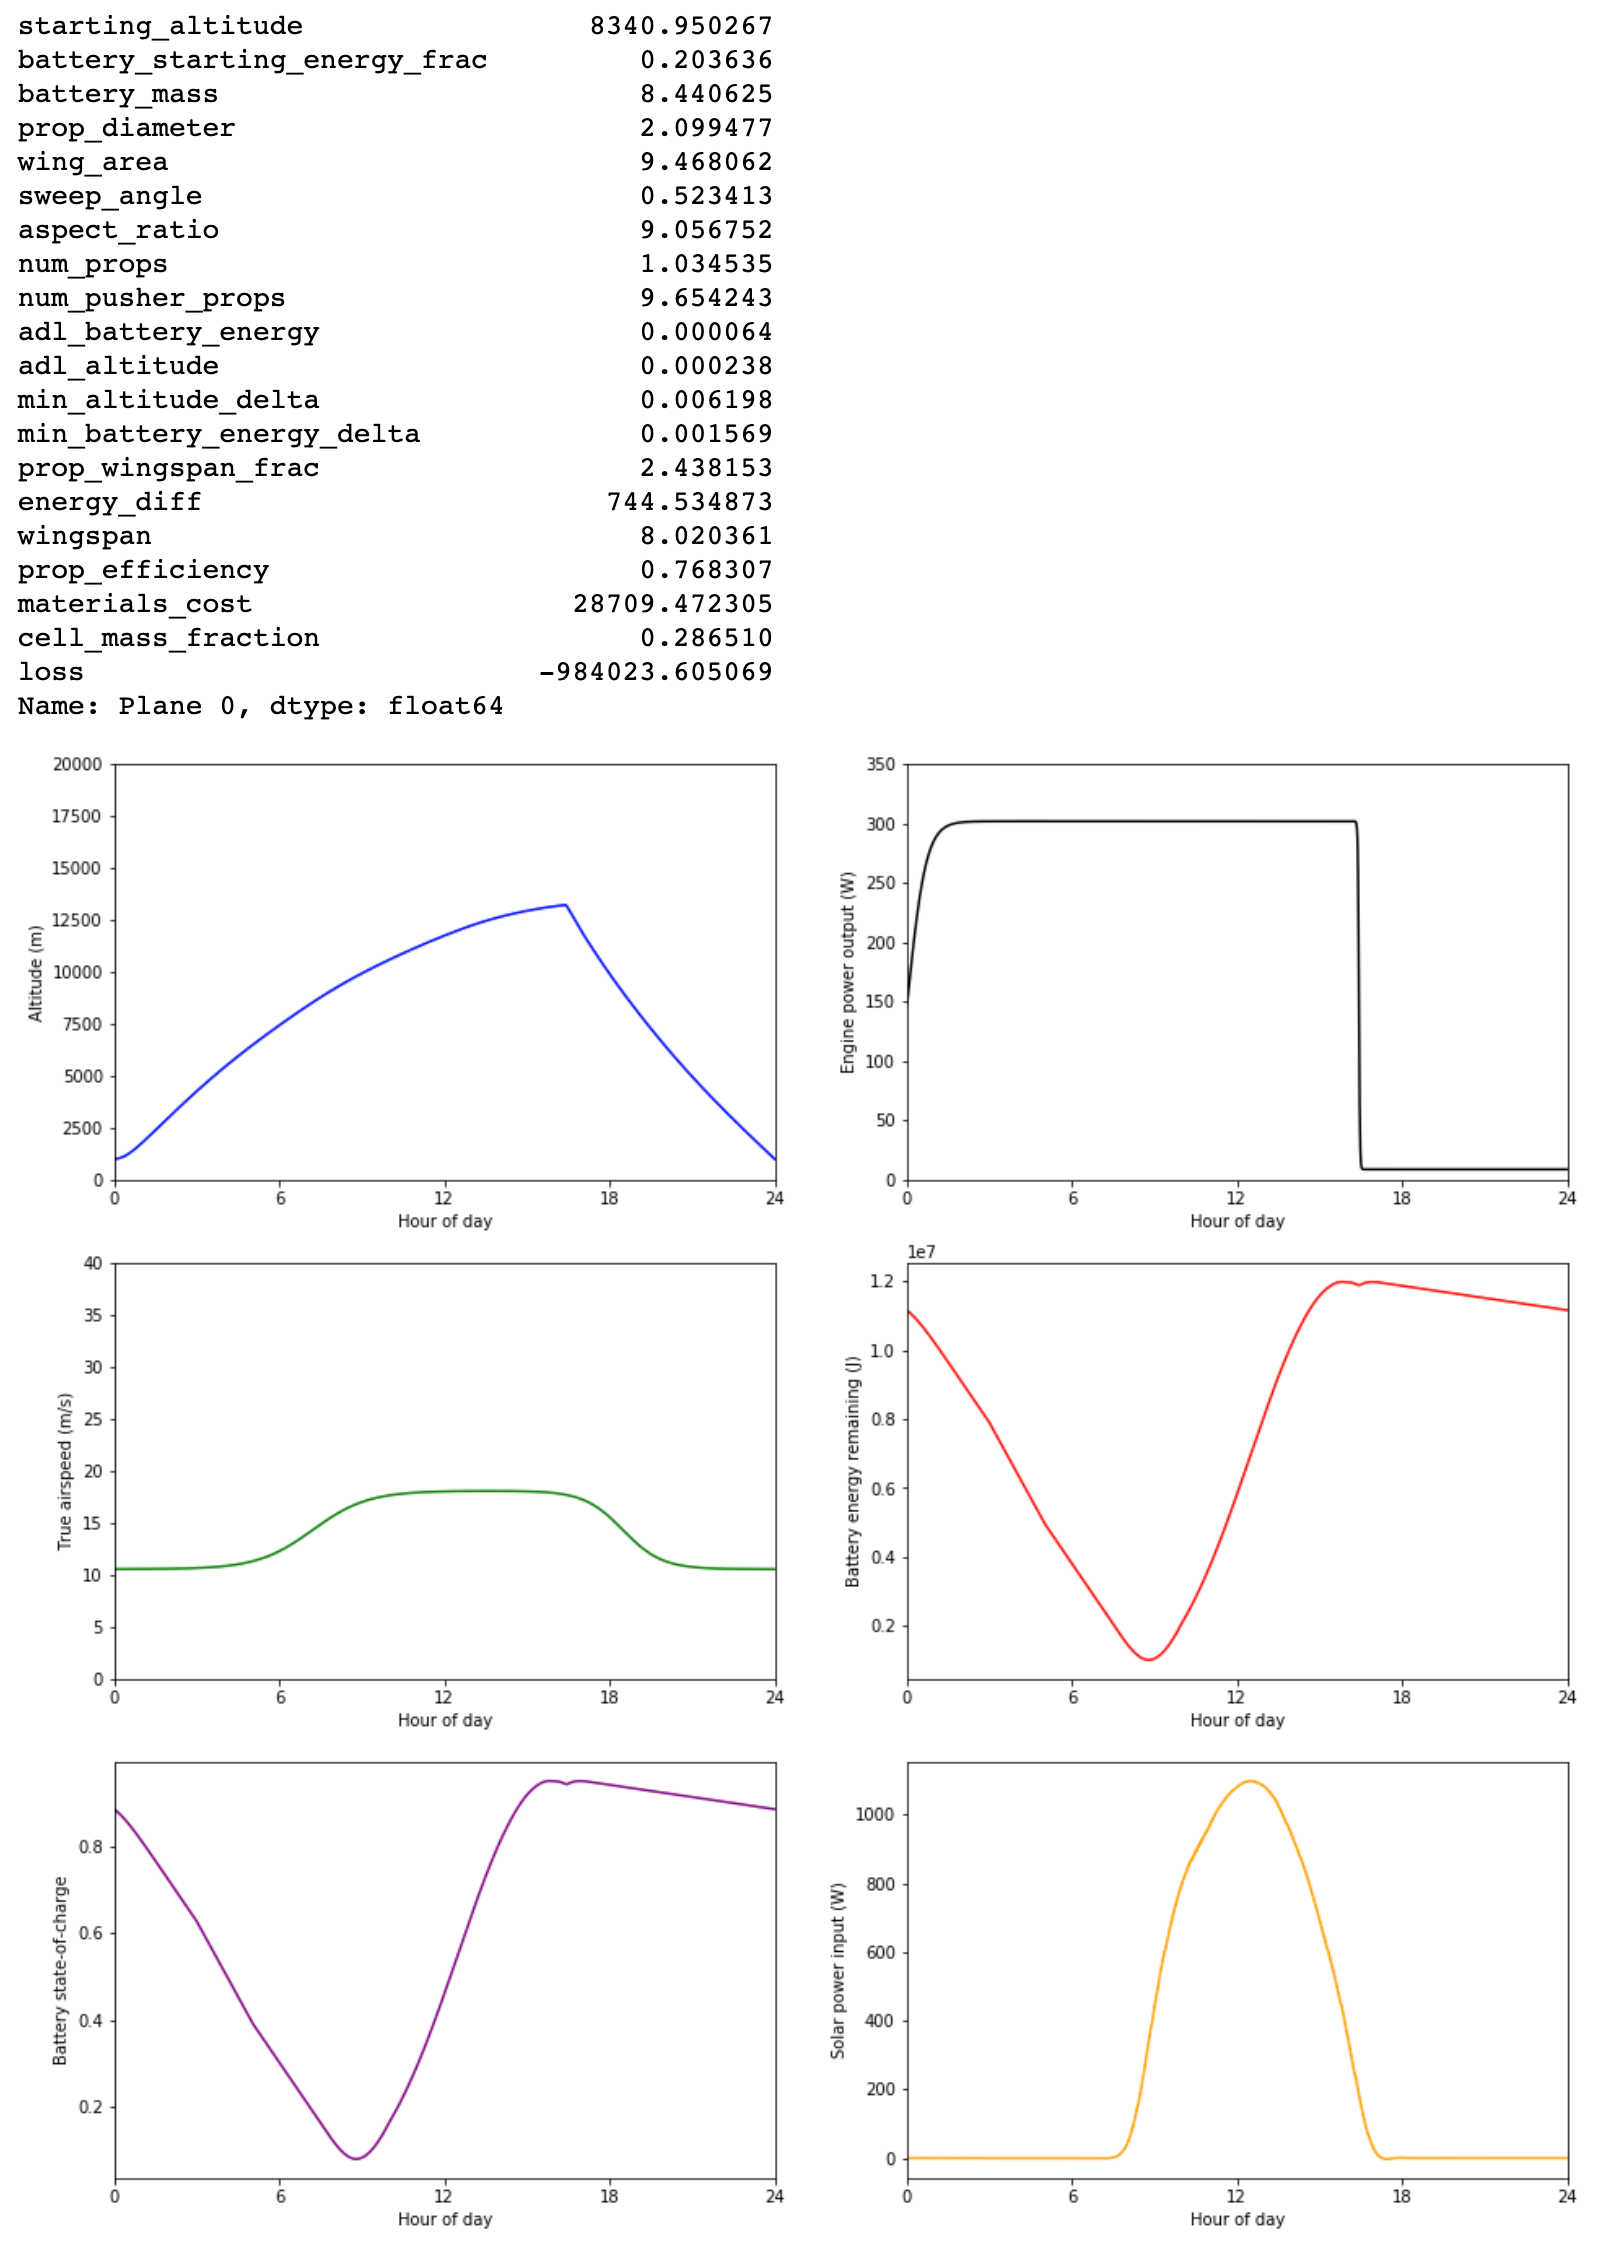
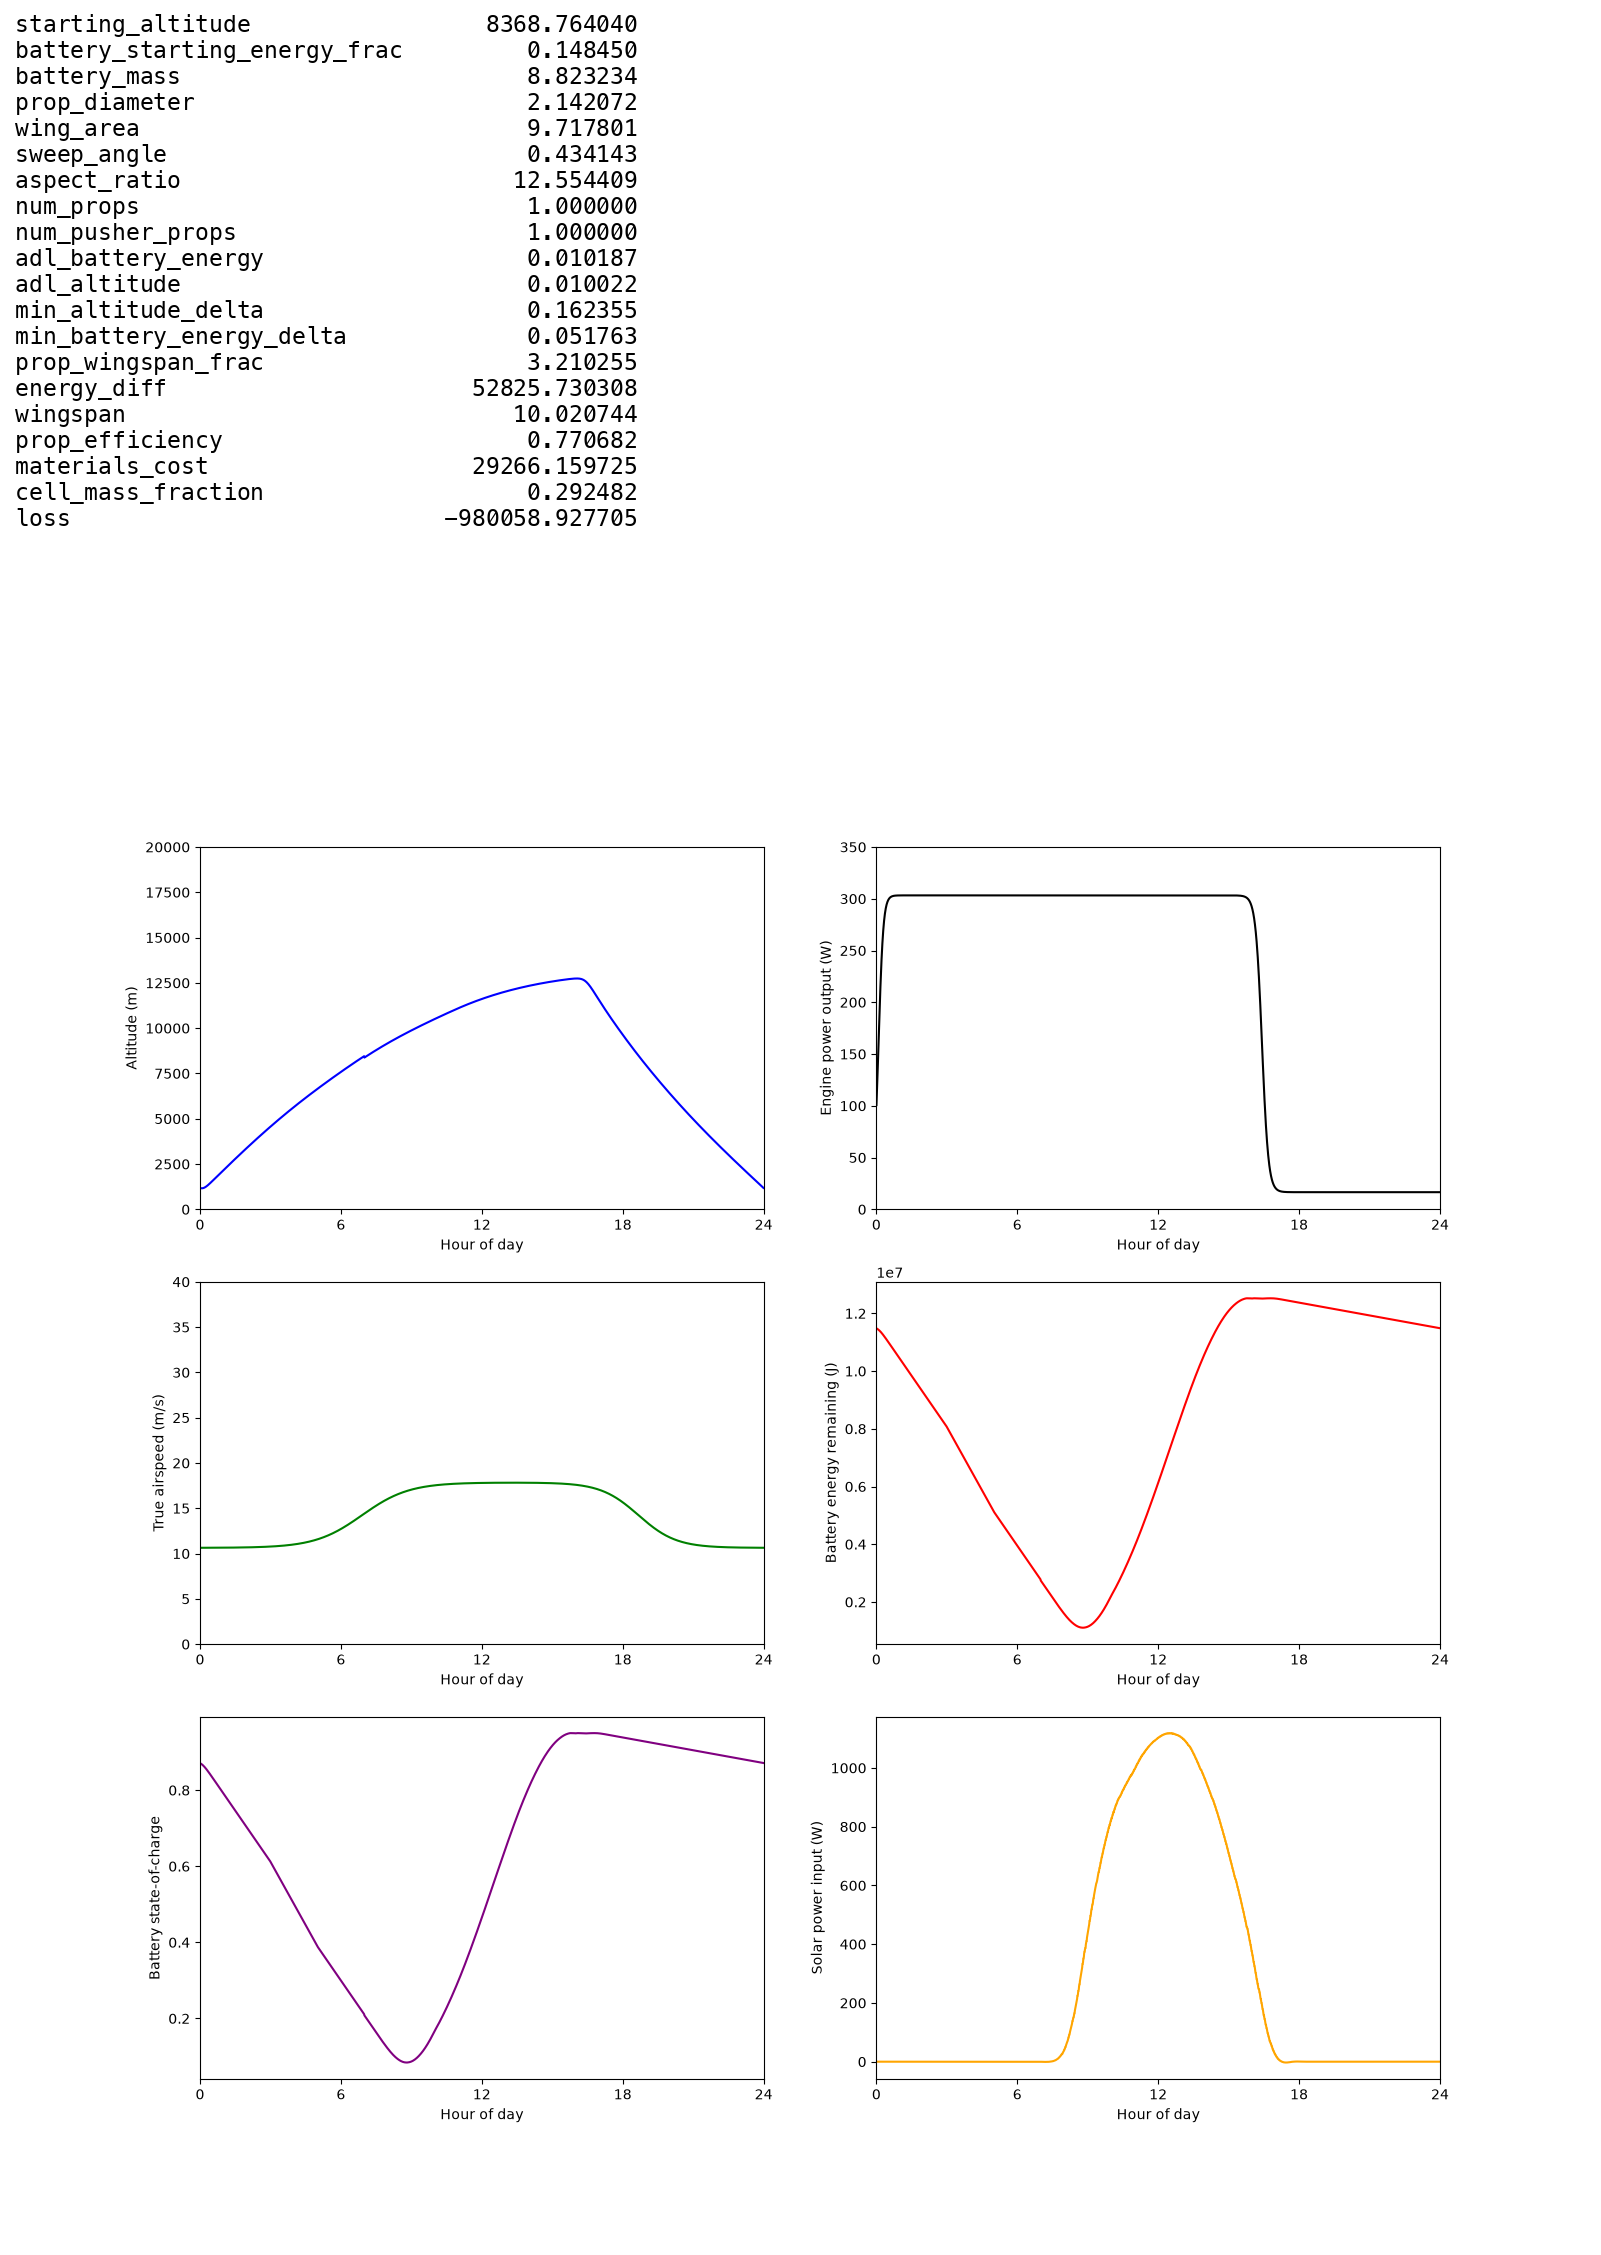
tighten aero physics and refresh analysis outputs

diff --git a/craft_temperature.py b/craft_temperature.py
@@ -3,7 +3,7 @@ Nu = h * L / k
 
 h = Nu * k / L
 
-k = 2.15 for dry air around 240 K
+k = 0.0215 W/(m*K) for dry air around 240 K
 
 https://www.sfu.ca/~mbahrami/ENSC%20388/Notes/Forced%20Convection.pdf
 for Pr > 0.6 laminar:
@@ -50,10 +50,8 @@ dQ/dt = 0
 from scipy import optimize, constants
 
 # When the plane is flying through the air, what will its temperature be?
-# After running this and playing around with it, it was obvious that the plane temperature
-# is pretty much equivalent to the temperature of air it's flying through
-# even accounting for heating due to air compression in front of the wing, heating from waste heat,
-# and sun radiation.
+# After running this and playing around with it, the wing temperature is still
+# close enough for this simplified model's constant solar-cell-efficiency assumption.
 def get_craft_temperature(wing_area_lam, wing_area_turb, Re_lam, Re_turb, char_length,
                           T_air, heat_waste, solar_irrad, albedo,
                           absorbance=0.8, emissivity=0.8): # Defaults for wing
@@ -62,7 +60,7 @@ def get_craft_temperature(wing_area_lam, wing_area_turb, Re_lam, Re_turb, char_l
     # Assume entire aircraft is of same temperature
 
     initial_guess = 240 # Guess 240 K for initial temp
-    air_thermal_conductivity = 2.15 # for dry air around 240k
+    air_thermal_conductivity = 0.0215 # W/(m*K), for dry air around 240 K
     Pr = 0.725 # Prandtl number for dry air around 240 K
     
     wing_area = wing_area_lam + wing_area_turb
@@ -78,8 +76,8 @@ def get_craft_temperature(wing_area_lam, wing_area_turb, Re_lam, Re_turb, char_l
                          (2 * wing_area * constants.Stefan_Boltzmann * emissivity * x ** 4))
     return optimize.fsolve(temp_de, initial_guess)[0]
 
-# Confirm craft temp ~= air temp
-assert(239 < get_craft_temperature(7.0, 3.0, 2e5, 7e5, 1.1, 240.0, 50, 1000, 100) < 241)
+# Confirm the heat-balance result remains in a plausible range.
+assert(268 < get_craft_temperature(7.0, 3.0, 2e5, 7e5, 1.1, 240.0, 50, 1000, 100) < 273)
 
 # This can also be used to get the power requirement for heating battery pack
 # Assume insulation (aerogel etc.) blocks all convection and conduction

diff --git a/README.md b/README.md
@@ -1,11 +1,15 @@
-## Atmospheric electric satellite. See [<b>atmosat.ipynb</b>](https://github.com/gusgordon/atmosat/blob/master/atmosat.ipynb).
+## Atmospheric electric satellite. See [<b>atmosat.ipynb</b>](https://github.com/gusgordon/atmospheric_satellite/blob/master/atmosat.ipynb).
 
-The goal of this project is to determine what the smallest solar plane that can indefinitely sustain flight is.
+The goal of this project is to explore what a small solar plane would need in order to close a daily energy cycle under simplified assumptions.
 
 The approach is to first make a model of a solar plane that can be fed different parameters such as wingspan, battery mass, cruising altitude, number of props, payload mass, and so on. The model outputs the performance of the solar aircraft.
 
-Different plane configutations are then fed into the model under an optimization procedure (differential evolution seems to work best). The goal of the optimization procedure is to find plane with the lowest wingspan that is able to indefinitely remain in the air.
+Different plane configurations are then fed into the model under an optimization procedure (differential evolution seems to work best). The goal of the optimization procedure is to find a plane with low wingspan that can end the simulated day above its starting battery energy and altitude while preserving simple reserve margins.
 
-### Results - see [notebook](https://github.com/gusgordon/atmosat/blob/master/atmosat.ipynb) for details. All units are in metric (meters, kg, kW, and so on).
+This is an exploratory solar-endurance aircraft sizing notebook, not a validated atmospheric satellite or HAPS station-keeping design.
+
+The main notebook uses the checked-in irradiance grid. Regenerating that grid requires the optional upstream `airmass` package.
+
+### Results - see [notebook](https://github.com/gusgordon/atmospheric_satellite/blob/master/atmosat.ipynb) for details. All units are in metric (meters, kg, kW, and so on).
 
 ![example_result](example_result.png)